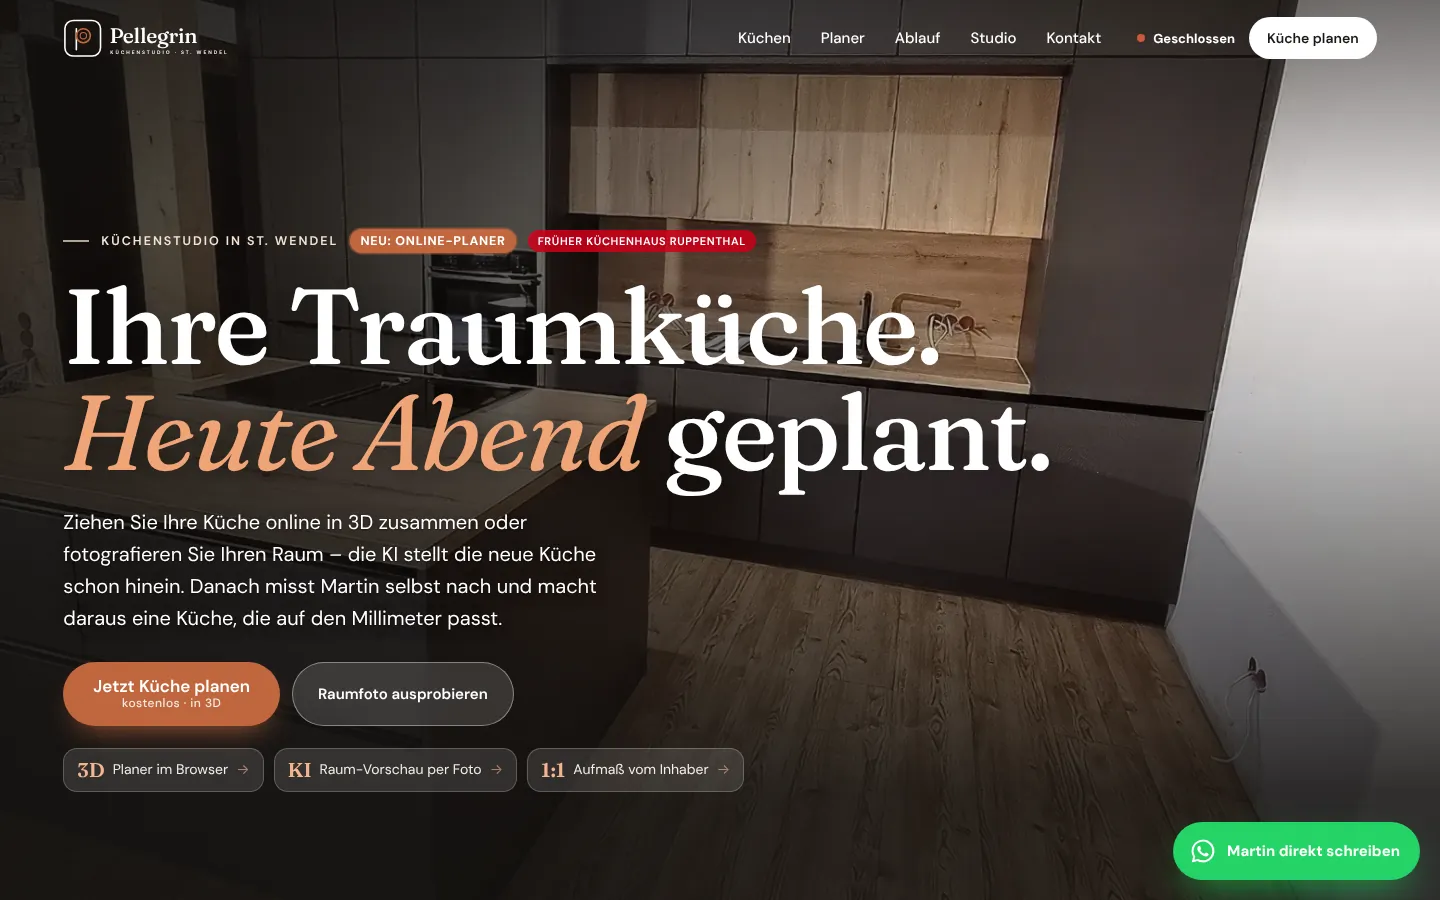
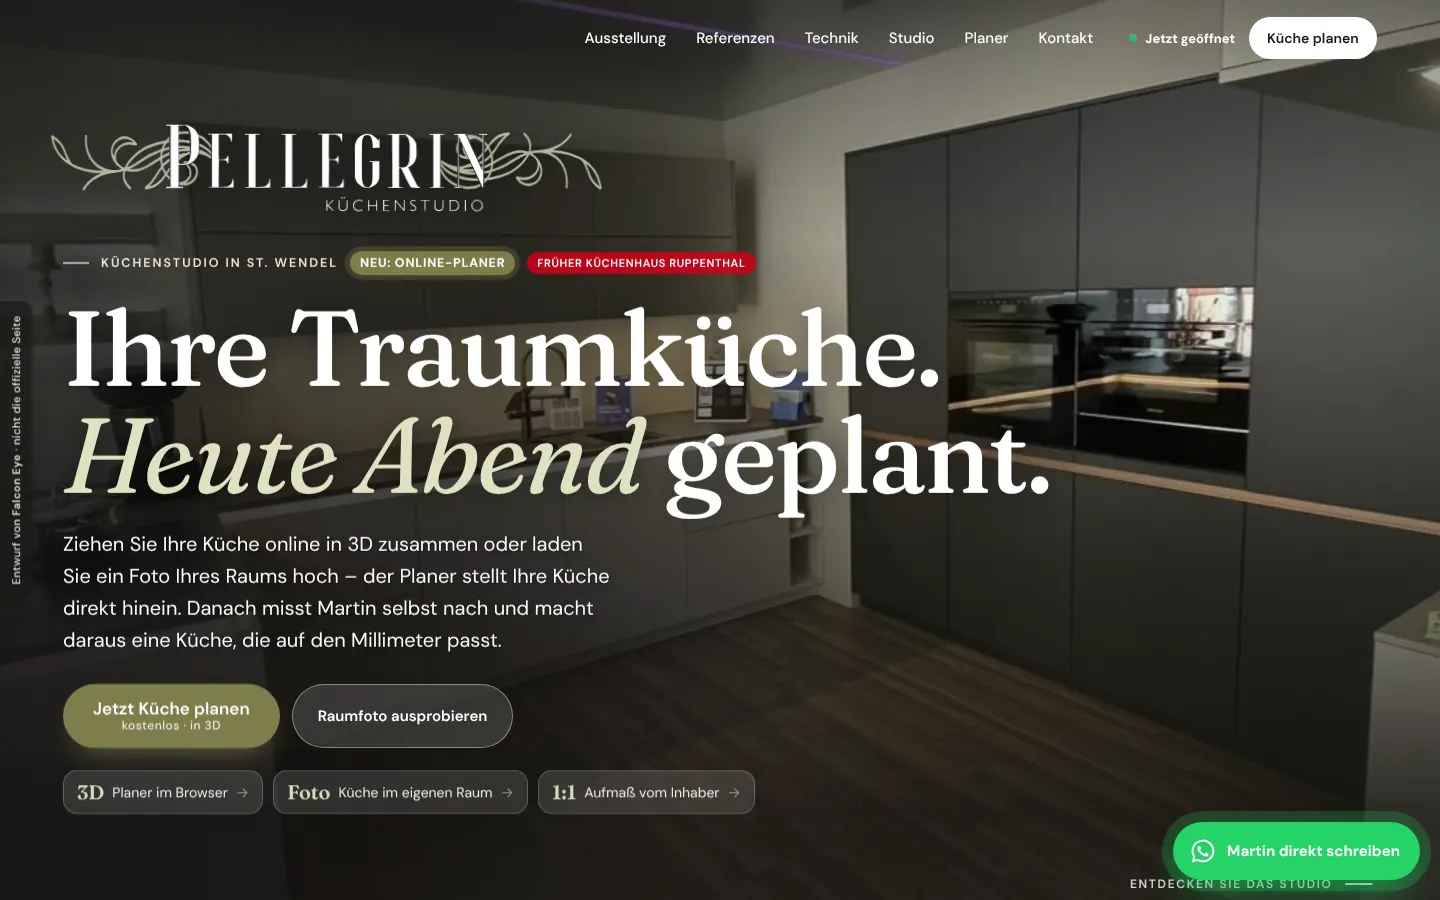
Webdesign: Pellegrin-Karte öffnet Vorführungs-Opener, neue Vorschaubilder mit neuem Branding
Claude-Session: https://claude.ai/code/session_01EMm62h9HVzjdUNKeAUenKu

diff --git a/webdesign.html b/webdesign.html
@@ -136,16 +136,16 @@
     <a class="wd-go" href="https://entwurf.falcon-eye.de/garten-traum/">Seite öffnen <span aria-hidden="true">→</span></a>
   </div>
 </li><li class="wd-ref" style="--i:4">
-  <a class="wd-dev" href="https://entwurf.falcon-eye.de/pellegrin/" aria-label="Pellegrin Küchen ansehen">
-    <span class="wd-lap"><span class="wd-bar"><i></i><i></i><i></i><em>entwurf.falcon-eye.de/pellegrin/</em></span><img src="media/wd/pellegrin_d.webp?v=2" alt="Startseite Pellegrin Küchen am Laptop" loading="lazy" decoding="async" width="1440" height="900"></span>
-    <span class="wd-phone"><img src="media/wd/pellegrin_m.webp?v=2" alt="Startseite Pellegrin Küchen am Handy" loading="lazy" decoding="async" width="390" height="664"></span>
+  <a class="wd-dev" href="https://entwurf.falcon-eye.de/start-pellegrin/" aria-label="Pellegrin Küchen ansehen">
+    <span class="wd-lap"><span class="wd-bar"><i></i><i></i><i></i><em>entwurf.falcon-eye.de/pellegrin/</em></span><img src="media/wd/pellegrin_d.webp?v=3" alt="Startseite Pellegrin Küchen am Laptop" loading="lazy" decoding="async" width="1440" height="900"></span>
+    <span class="wd-phone"><img src="media/wd/pellegrin_m.webp?v=3" alt="Startseite Pellegrin Küchen am Handy" loading="lazy" decoding="async" width="390" height="664"></span>
   </a>
   <div class="wd-txt">
     <p class="wd-k"><span class="wd-badge">Entwurf</span>Küchenstudio · St. Wendel</p>
     <h3>Pellegrin Küchen</h3>
     <p>Küche online in 3D zusammenziehen, Raumfoto hochladen – und echte Montagegeschichten mit Vorher/Nachher.</p>
     <ul class="wd-tags"><li>3D-Küchenplaner</li><li>Vorher/Nachher</li><li>BORA in 3D</li></ul>
-    <a class="wd-go" href="https://entwurf.falcon-eye.de/pellegrin/">Seite öffnen <span aria-hidden="true">→</span></a>
+    <a class="wd-go" href="https://entwurf.falcon-eye.de/start-pellegrin/">Seite öffnen <span aria-hidden="true">→</span></a>
   </div>
 </li><li class="wd-ref" style="--i:5">
   <a class="wd-dev" href="https://entwurf.falcon-eye.de/erbelding/" aria-label="Küchenstudio Erbelding ansehen">
